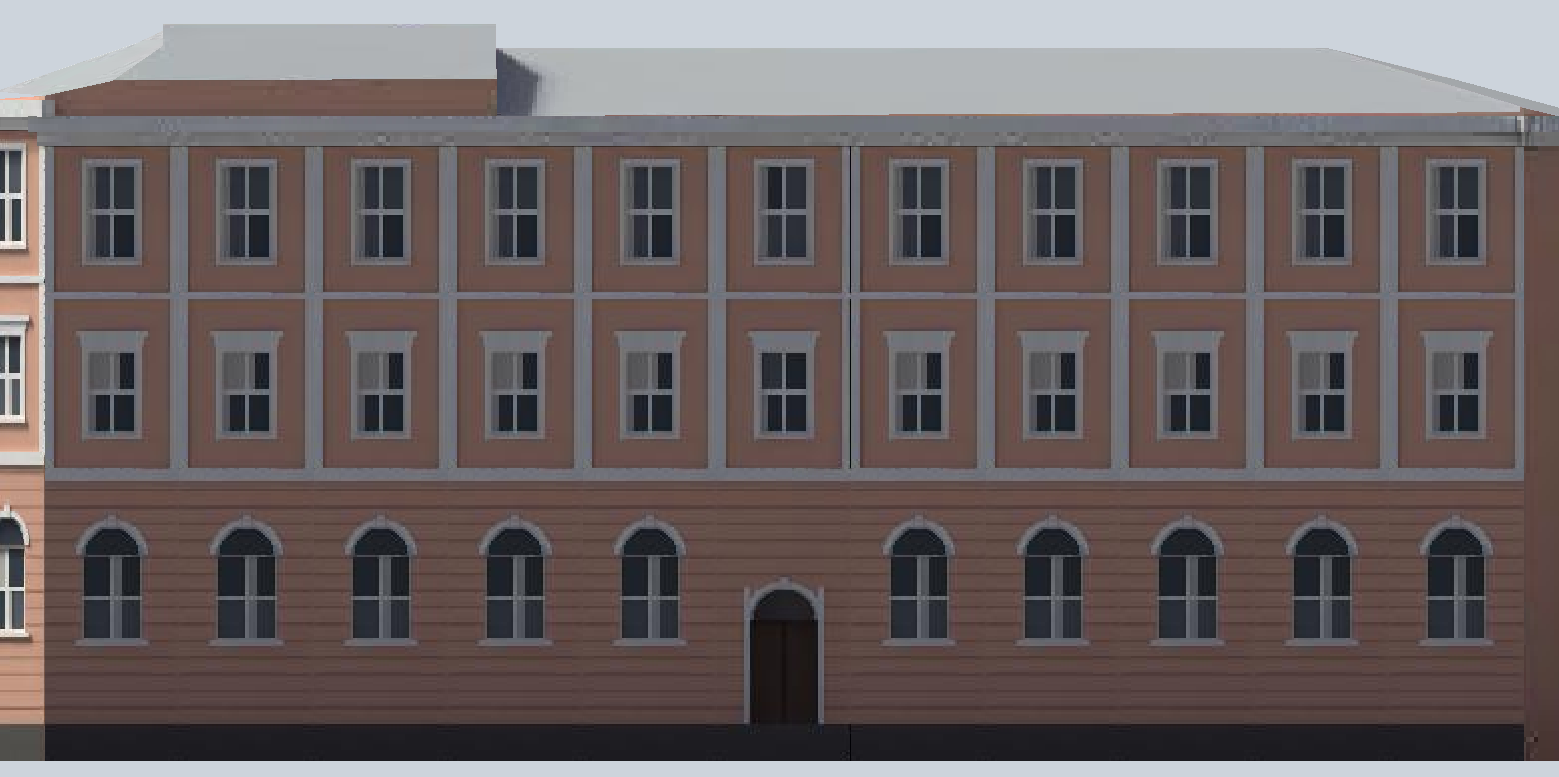
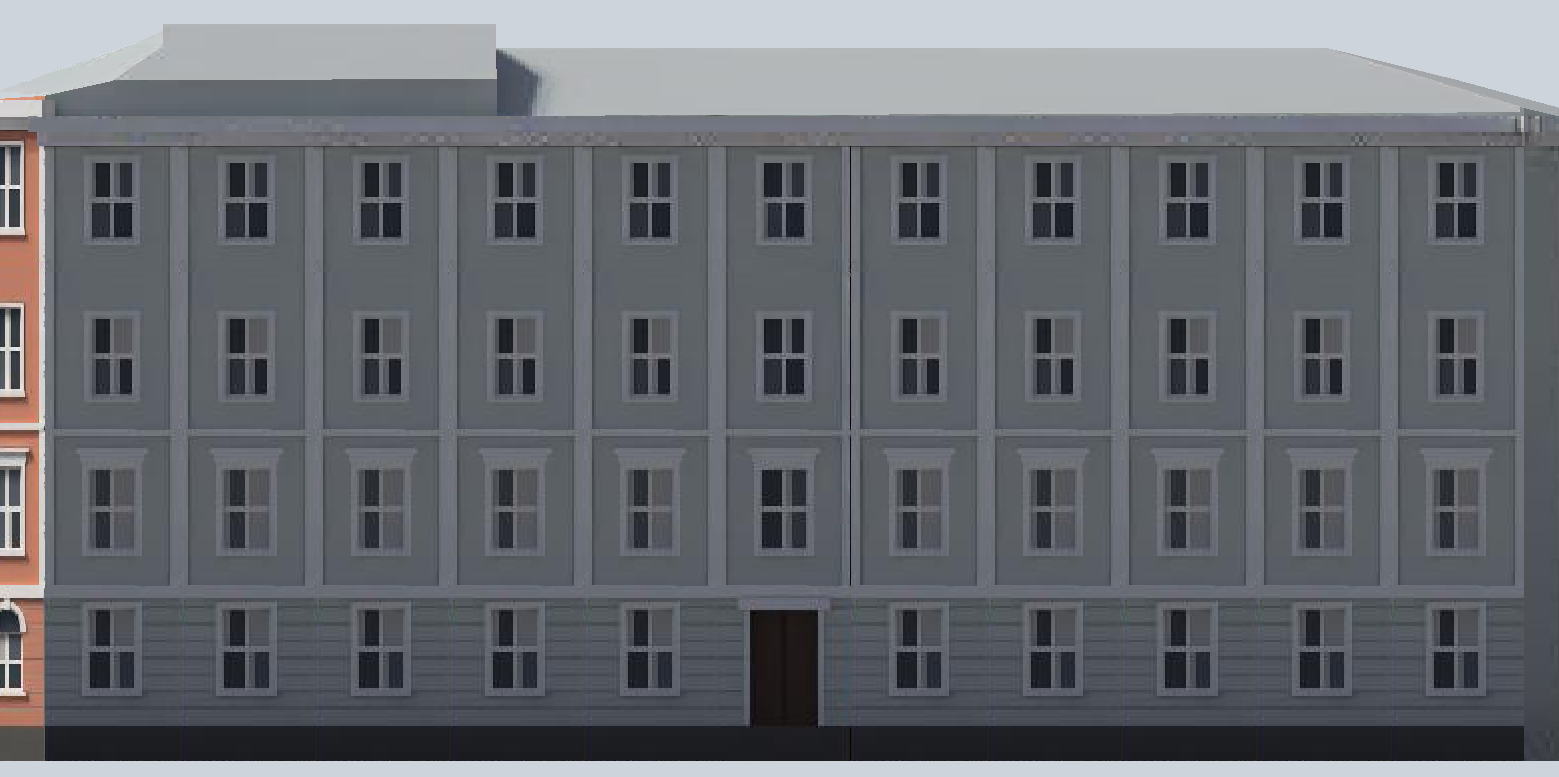
antin

diff --git a/blender/kivi.py b/blender/kivi.py
@@ -132,13 +132,20 @@ _ly['alt'] = lambda x, y: _lyy if x * 0.9744 - y * 0.225 < -486.6 else None
 SPECK[1351] = classic_spec(1351, **_ly); SPECK[1353] = classic_spec(1353, **dict(_ly, lay=dict(gh=4.6, fh=4.2)))
 SPECK[1311] = classic_spec(1311, wall='#e3d8b4', trim='#f4f1ea', rust=False, garch=False, hood=None, pil=False)   # Valtakatu 17-19 side: long 2-storey pale yellow house, plain windows (Street View 13.11.2026)
 SPECK[1574] = classic_spec(1574, wall='#e3d7b9', trim='#f4f1ea', rust=False, garch=False, hood=None, pil=False)   # Valtakatu 9: small 1-storey stucco house with a gable, plain windows (Street View 13.11.2026)
-SPECK[1560] = classic_spec(1560, trim='#f4f1ea', rust=True, garch=True, hood='cornice', pil=True)   # Antinkatu 1 / Eteläranta: salmon render, white dressings (Street View 13.11.2026)
+# Eteläranta / Antinkatu corner (Street View 14.11.2026, owner): four storeys. The corner bay with the 45-degree chamfer (door and a
+# balcony above it) and the Antinkatu side are salmon red with white dressings over a grey rusticated ground floor; west of the corner
+# bay the Eteläranta front is a pale grey-green house with a balcony. One LoD2 shell holds both, so the walls are split by position.
+_e1560 = classic_spec(1560, wall='#c9cfc6', trim='#f2f1ec', rust=True, garch=False, hood='cornice', pil=True, lay=dict(nf=4),
+                      ground=dict(rustc=M('#a9aca7')))
+SPECK[1560] = classic_spec(1560, wall='#d98a6c', trim='#f4f1ea', rust=True, garch=True, hood='cornice', pil=True, lay=dict(nf=4),
+                           ground=dict(rustc=M('#9fa29e')))
+SPECK[1560]['alt'] = lambda x, y: _e1560 if x < 53.0 and y > 430.0 else None
 SPECK[1604] = classic_spec(1604, trim='#b0603f', rust=False, garch=False, hood='cornice', pil=False, top=dict(hood='cornice'))  # yellow Jugend house on Antinkatu: brick-red arched lintels with keystones over the windows on every floor (Street View 14.11.2026); gables from the LoD2 shell
 SPECK[1284] = classic_spec(1284, wall='#e4dcc6', trim='#f3eee2', rust=True, garch=True, hood='pediment', pil=False,
                            extra=[corner_tower(-172.4, 404.9, 2.1, 9.2, 13.4, M('#e4dcc6'), M('#f3eee2'), M('#3a3f45', 0.5, 0.3))])   # Heinen talo / seurakuntatoimisto: banded rustication on the ground floor, arched ground-floor windows, pedimented upper windows (Street View 14.11.2026)
 SPECK[1513] = classic_spec(1513, wall='#9b4b36', trim='#b9654c', rust=False, garch=True, hood=None, pil=True, bw=4.6, cornice=(0.3, 0.7, M('#7f3d2c')))   # brewery remnant
 SPECK[1281] = classic_spec(1281, wall='#e2dcbc', trim='#f4f1e8', rust=False, garch=False, hood='cornice', pil=True)   # Eteläranta 10: pale yellow render, white pilasters, window surrounds and cornice (Street View 14.11.2026)
-SPECK[1285] = classic_spec(1285, trim='#f4f1e8', rust=False, garch=True, hood='cornice', pil=True)   # Eteläranta: pale yellow, arched ground-floor windows, white surrounds (Street View 14.11.2026)
+SPECK[1285] = classic_spec(1285, wall='#ece6d2', trim='#f6f4ee', rust=False, garch=True, hood='cornice', pil=True, lay=dict(nf=2))   # Eteläranta / S. Palmgreninkatu: very light cream, TWO storeys, arched ground-floor windows (owner + Street View 14.11.2026); chamfered corner with a balcony not modelled yet
 SPECK[1563] = classic_spec(1563, trim='#f4f1e8', rust=False, garch=False, hood='cornice', pil=False)   # Antinkatu 3 corner: white 2-storey, window cornices (Street View 14.11.2026); the Hallituskatu end looks yellow - two houses in one LoD2 shell?
 SPECK[1447] = classic_spec(1447, wall='#9c4f3c', trim='#e6dccb', rust=False, garch=True, hood=None, pil=True, bw=3.8, first=dict(arch=True), top=dict(arch=True))   # old red-brick building at Eteläranta/Karhu: round-arched windows with light surrounds, brick pilasters (was a plain modern box; Street View 14.11.2026)
 SPECK[1575] = classic_spec(1575, trim='#f4f1e8', rust=False, garch=True, hood='cornice', pil=True)   # Antinkatu/Hallituskatu corner: yellow, big round-arched shop windows, white corner quoins (Street View 14.11.2026)
@@ -146,7 +153,7 @@ SPECK[1572] = classic_spec(1572, trim='#f4f1e8', rust=False, garch=False, hood='
 SPECK[1561] = classic_spec(1561, trim='#f6f4ee', rust=False, garch=False, hood=None, pil=False)   # Antinkatu: small white gabled 1-storey house, plain windows (Street View 14.11.2026)
 SPECK[1562] = classic_spec(1562, trim='#f6f4ee', rust=False, garch=False, hood='cornice', pil=False)   # Antinkatu: white 2-storey (Street View 14.11.2026)
 SPECK[1573] = classic_spec(1573, trim='#f4f1e8', rust=False, garch=False, hood=None, pil=False)   # Antinkatu: low 1-storey yellow house, no arched windows; the arched gateway with columns is not modelled (Street View 14.11.2026, owner)
-SPECK[1566] = classic_spec(1566, trim='#f4f1e8', rust=False, garch=False, hood='cornice', pil=False)   # Eteläranta 4 / Antinkatu 2 (1854): 2 storeys, rectangular windows with cornices, no arches (Street View 14.11.2026)
+SPECK[1566] = classic_spec(1566, wall='#cdd8de', trim='#f4f1e8', rust=False, garch=False, hood='cornice', pil=False)   # Eteläranta 4 / Antinkatu 2 (1854): light blue (owner 14.11.2026), 2 storeys, rectangular windows with cornices
 SPECK[1454] = classic_spec(1454, trim='#f7f6f1', rust=False, garch=False, hood='pediment', pil=False, ground=dict(hood='pediment'))   # Teatterikatu: white 1-storey, triangular pediments over the windows (Street View 14.11.2026)
 SPECK[1292] = classic_spec(1292, trim='#f5f2ea', rust=False, garch=False, hood='cornice', pil=True)   # Selim Palmgreninkatu / Valtakatu corner: yellow 1-storey, white window surrounds with cornices, white corner pilasters (Street View 14.11.2026)
 
